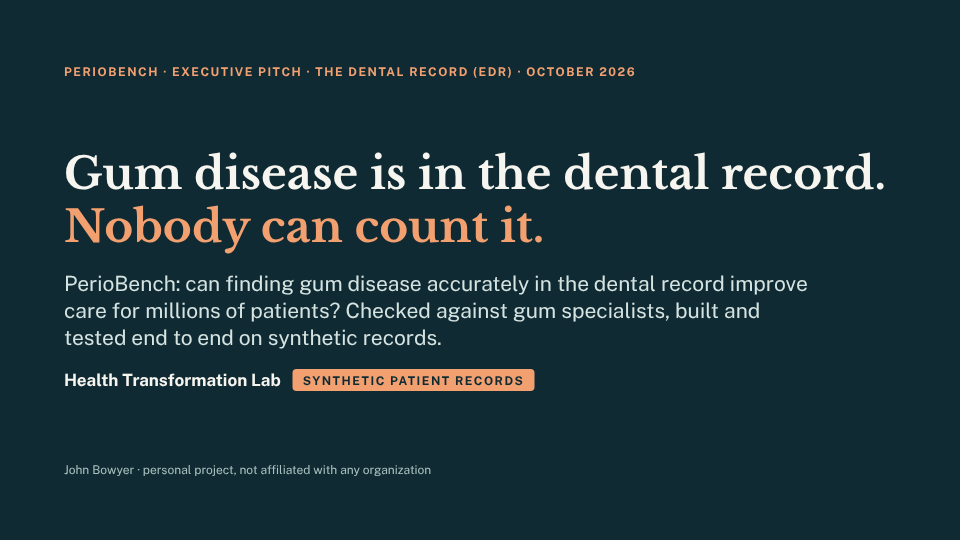
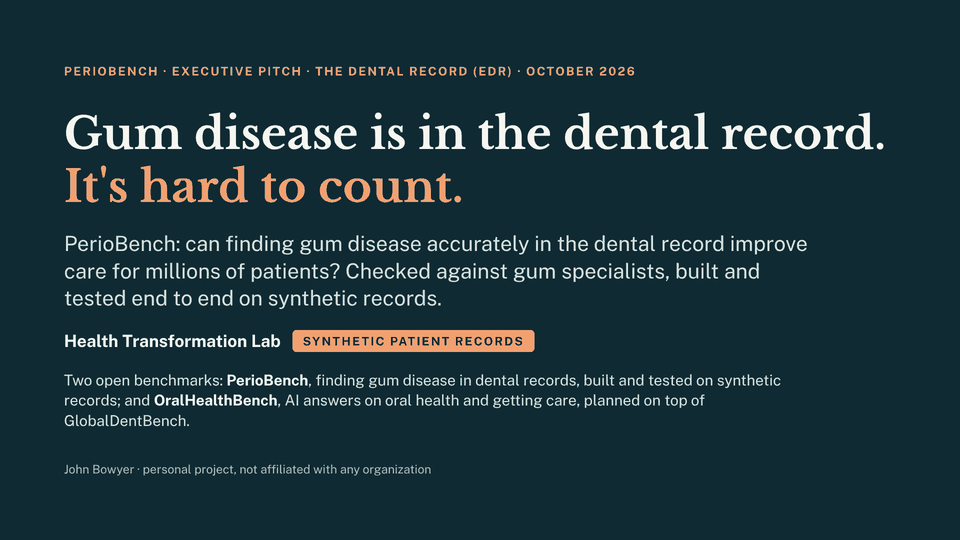
Replace "Nobody can count it" on the landing page (#10)
The owner asked us to stop overstating: gum disease is hard to count
consistently, not impossible to count. This matches the project's
PerioBench cover (health-transformation-lab-nlp#275). The quote and the
cover's alt text now say "It's hard to count", the paragraph says it is
often missed and hard to follow or link to diabetes care, and the cover
image is the re-rendered one.

Claude-Session: https://claude.ai/code/session_01MiKEPdbCV5VvKfqBjsweCK

diff --git a/index.html b/index.html
@@ -167,8 +167,8 @@ footer p{max-width:60em;margin-bottom:10px}
     <div>
       <p class="kicker">Benchmark 1 · dental records · working on synthetic data</p>
       <h2>PerioBench</h2>
-      <p class="quote">Gum disease is in the dental record. Nobody can count it.</p>
-      <p>Gum disease (periodontitis) is written down at almost every dental visit, but in pieces: notes, forms, codes and measurements that often disagree. So it is missed, can't be followed over time, and can't be linked to diabetes care. PerioBench scores how accurately rules and AI find it in the whole record. It runs end to end on <b>synthetic</b> records:</p>
+      <p class="quote">Gum disease is in the dental record. It's hard to count.</p>
+      <p>Gum disease (periodontitis) is written down at almost every dental visit, but in pieces: notes, forms, codes and measurements that often disagree. So it is often missed, hard to follow over time, and hard to link to diabetes care. PerioBench scores how accurately rules and AI find it in the whole record. It runs end to end on <b>synthetic</b> records:</p>
       <ul>
         <li>the whole record, combined by rules that read the gum measurements first: <b>234 of 240</b> charts right;</li>
         <li>the free-text note alone, read by a small trained model: <b>219 of 240</b>;</li>
@@ -181,7 +181,7 @@ footer p{max-width:60em;margin-bottom:10px}
         <a class="btn" href="https://github.com/healthtransformationlab/health-transformation-lab-nlp/blob/main/docs/edr/README.md" target="_blank" rel="noopener">The study</a>
       </div>
     </div>
-    <a href="perio-bench/" target="_blank" rel="noopener"><img src="img/edr_deck_cover.png" alt="PerioBench pitch cover: Gum disease is in the dental record. Nobody can count it." width="960" height="540"></a>
+    <a href="perio-bench/" target="_blank" rel="noopener"><img src="img/edr_deck_cover.png" alt="PerioBench pitch cover: Gum disease is in the dental record. It's hard to count." width="960" height="540"></a>
   </div>
 </section>
 
